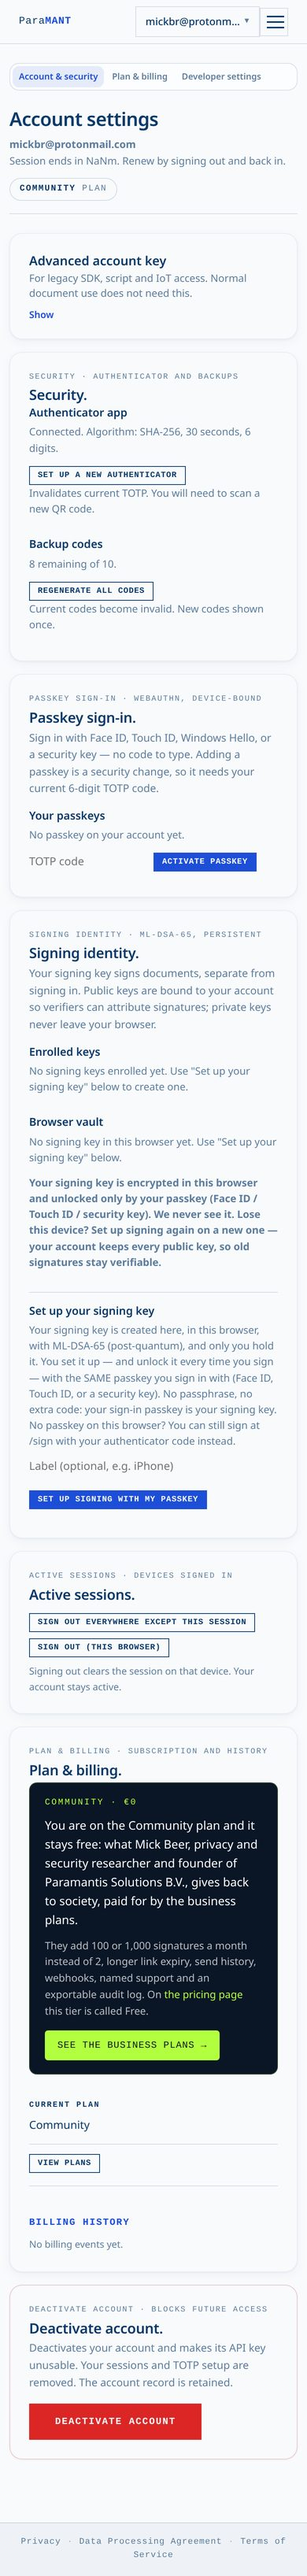
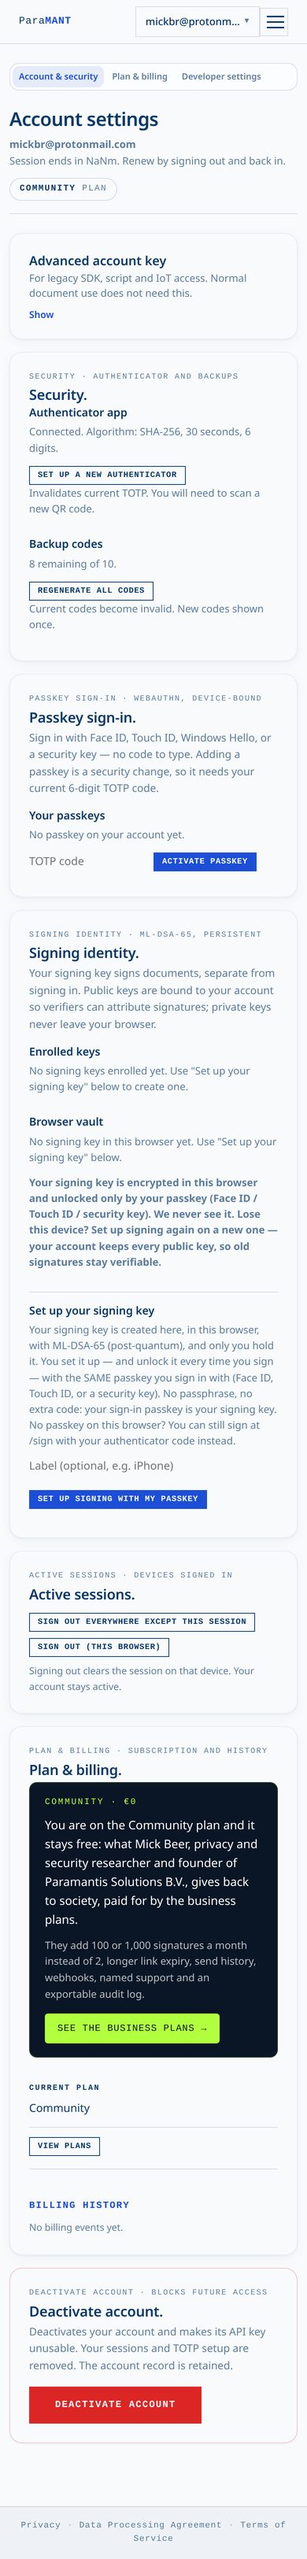
Screenshots at 390px for the signed-in dashboard and account

Changed region(s): [[0.0308, 0.0311, 0.8923, 0.932], [0.5846, 0.901, 0.7692, 0.932], [0.5846, 0.0932, 0.6154, 0.1243]]

diff --git a/README.md b/README.md
@@ -4,12 +4,15 @@ Playwright, Chromium, 390px viewport, full page. Produced by
 `scripts/shot-dashboard.mjs` on the branch `feat/dashboard-ingelogd`, with the
 account endpoints stubbed so no live relay is needed.
 
-- `390-dashboard-before.jpg`, `390-account-before.jpg` are `main` (`c45d1c6`),
-  which is what Mick sees on his phone today.
+- `390-dashboard-before.jpg`, `390-account-before.jpg` are `main`, which is what
+  Mick sees on his phone today.
 - `390-dashboard-community.jpg`, `390-account-community.jpg` are the branch on a
-  free account (`plan: community`).
-- `390-dashboard-pro.jpg`, `390-account-pro.jpg` are the branch on a paid
-  account (`plan: pro`), where the upgrade band is replaced by what the plan
-  covers and nothing links to a higher tier.
+  free account: unified plan `community`, both product tiers `free`.
+- `390-dashboard-pro.jpg`, `390-account-pro.jpg` are the branch on an account
+  whose unified plan is `pro`, granted rather than bought.
+- `390-dashboard-selfserve.jpg`, `390-account-selfserve.jpg` are the case that
+  was broken: unified plan still `community`, ParaSign tier `pro` with a running
+  paid period. The badge reads Pro, the upgrade band is gone, and the paid band
+  names only the product actually bought.
 
 This branch carries images only. It is not meant to be merged.
